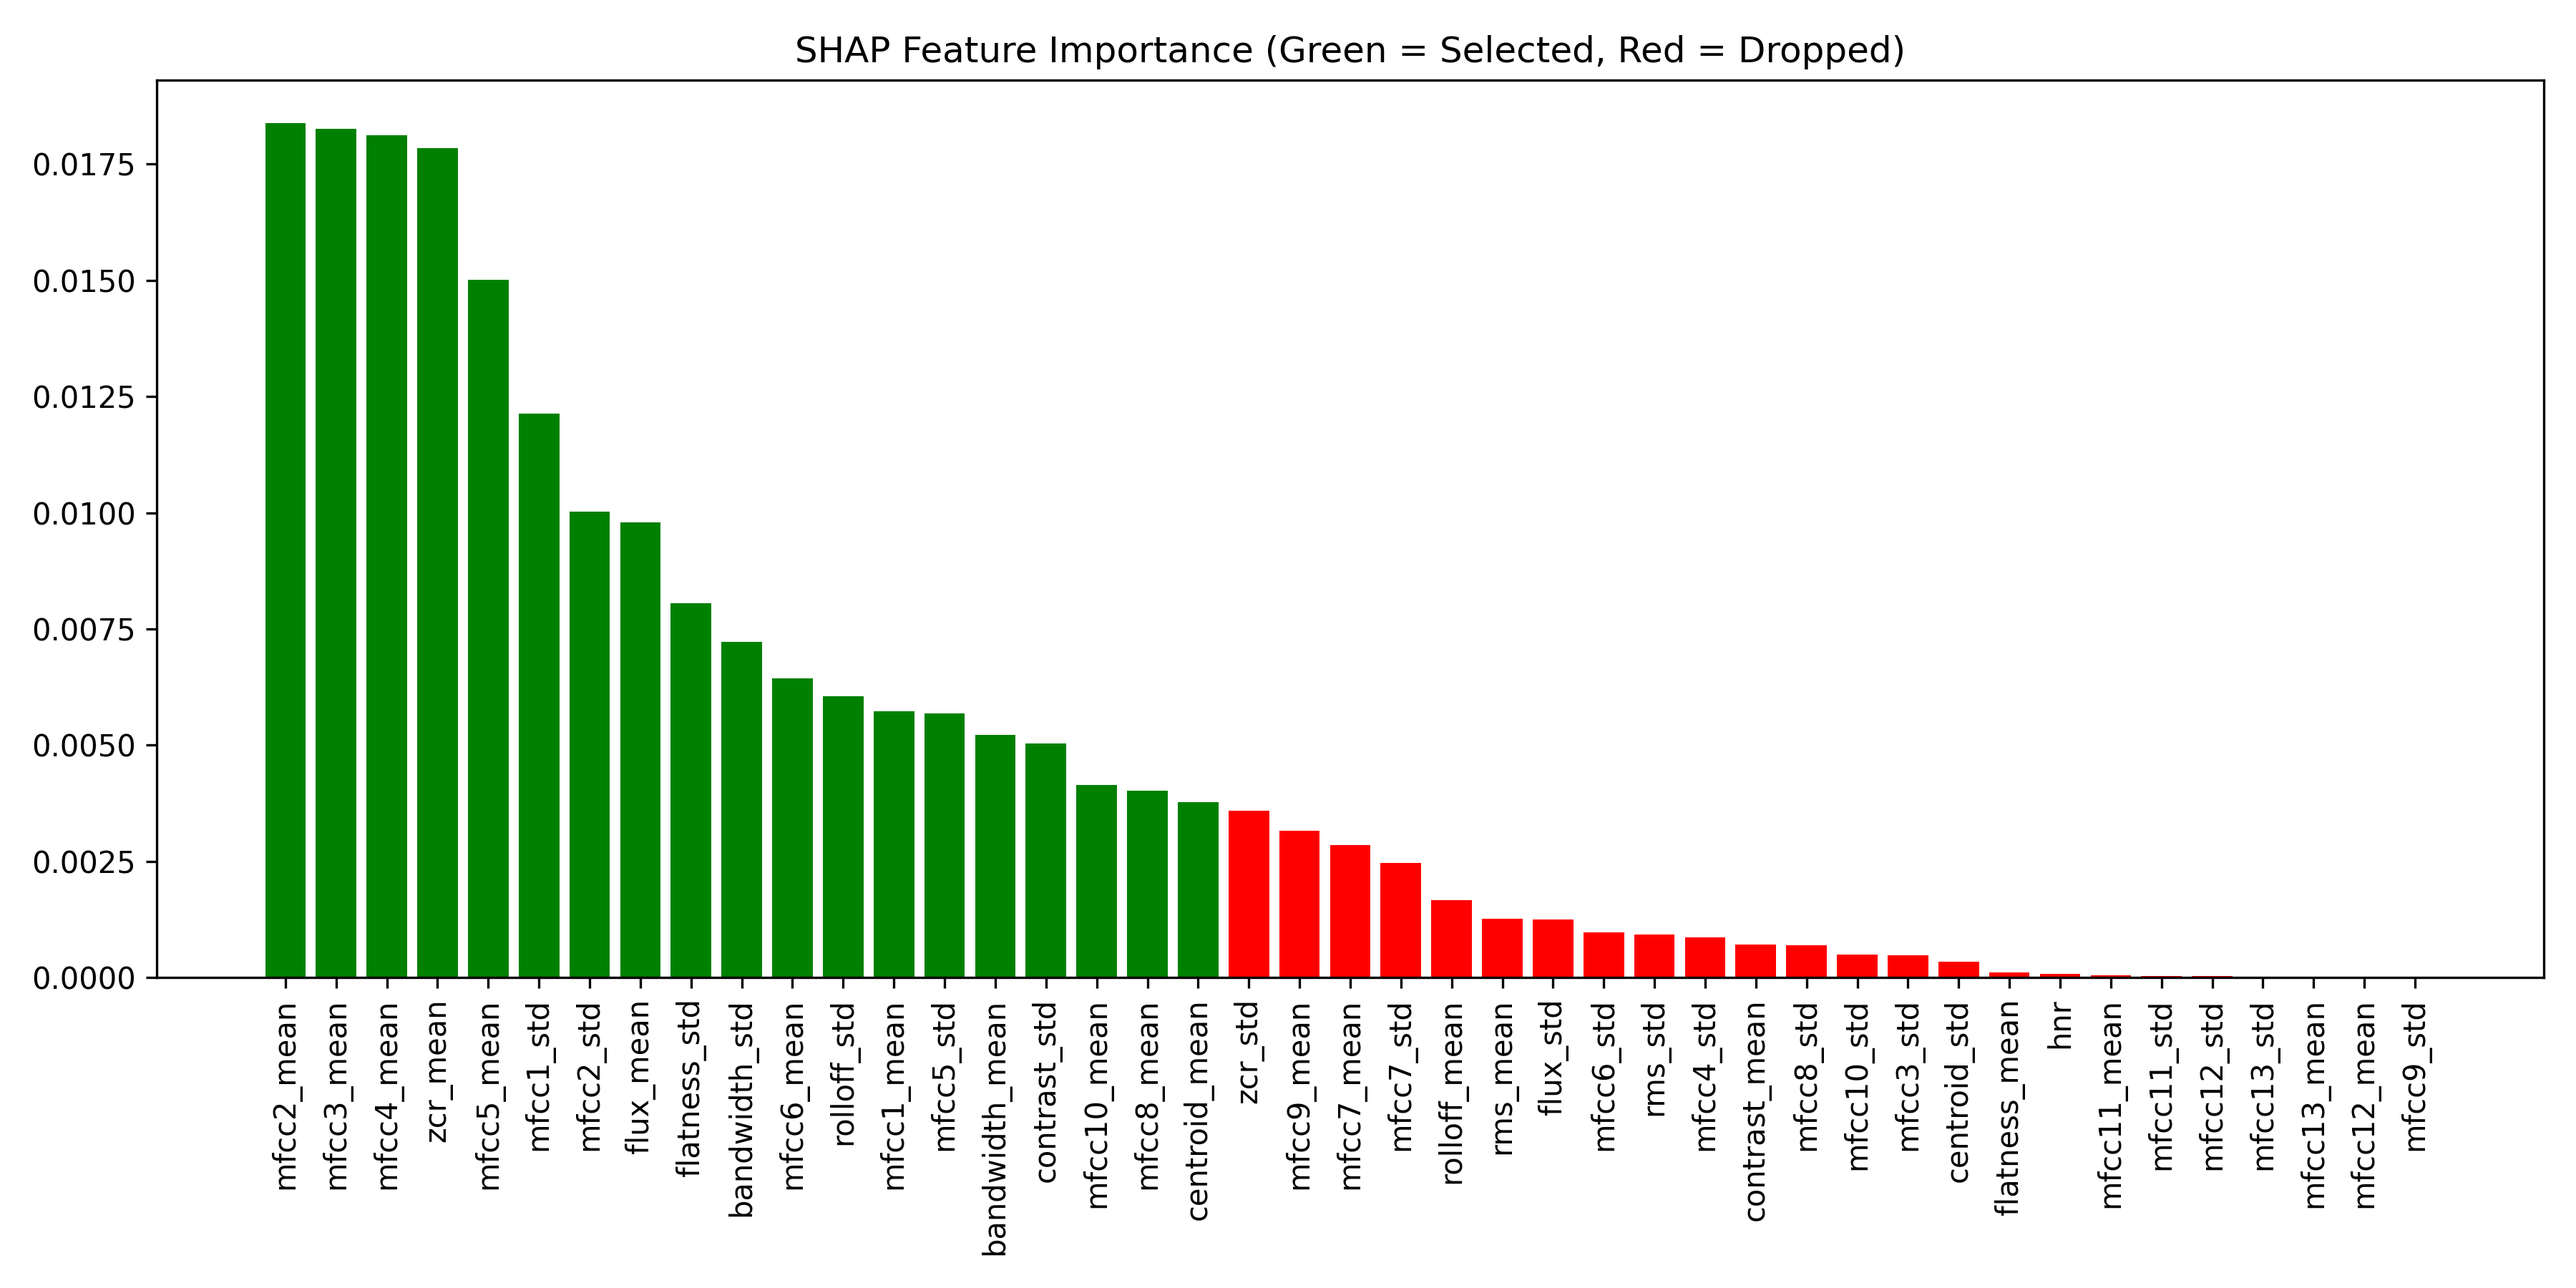
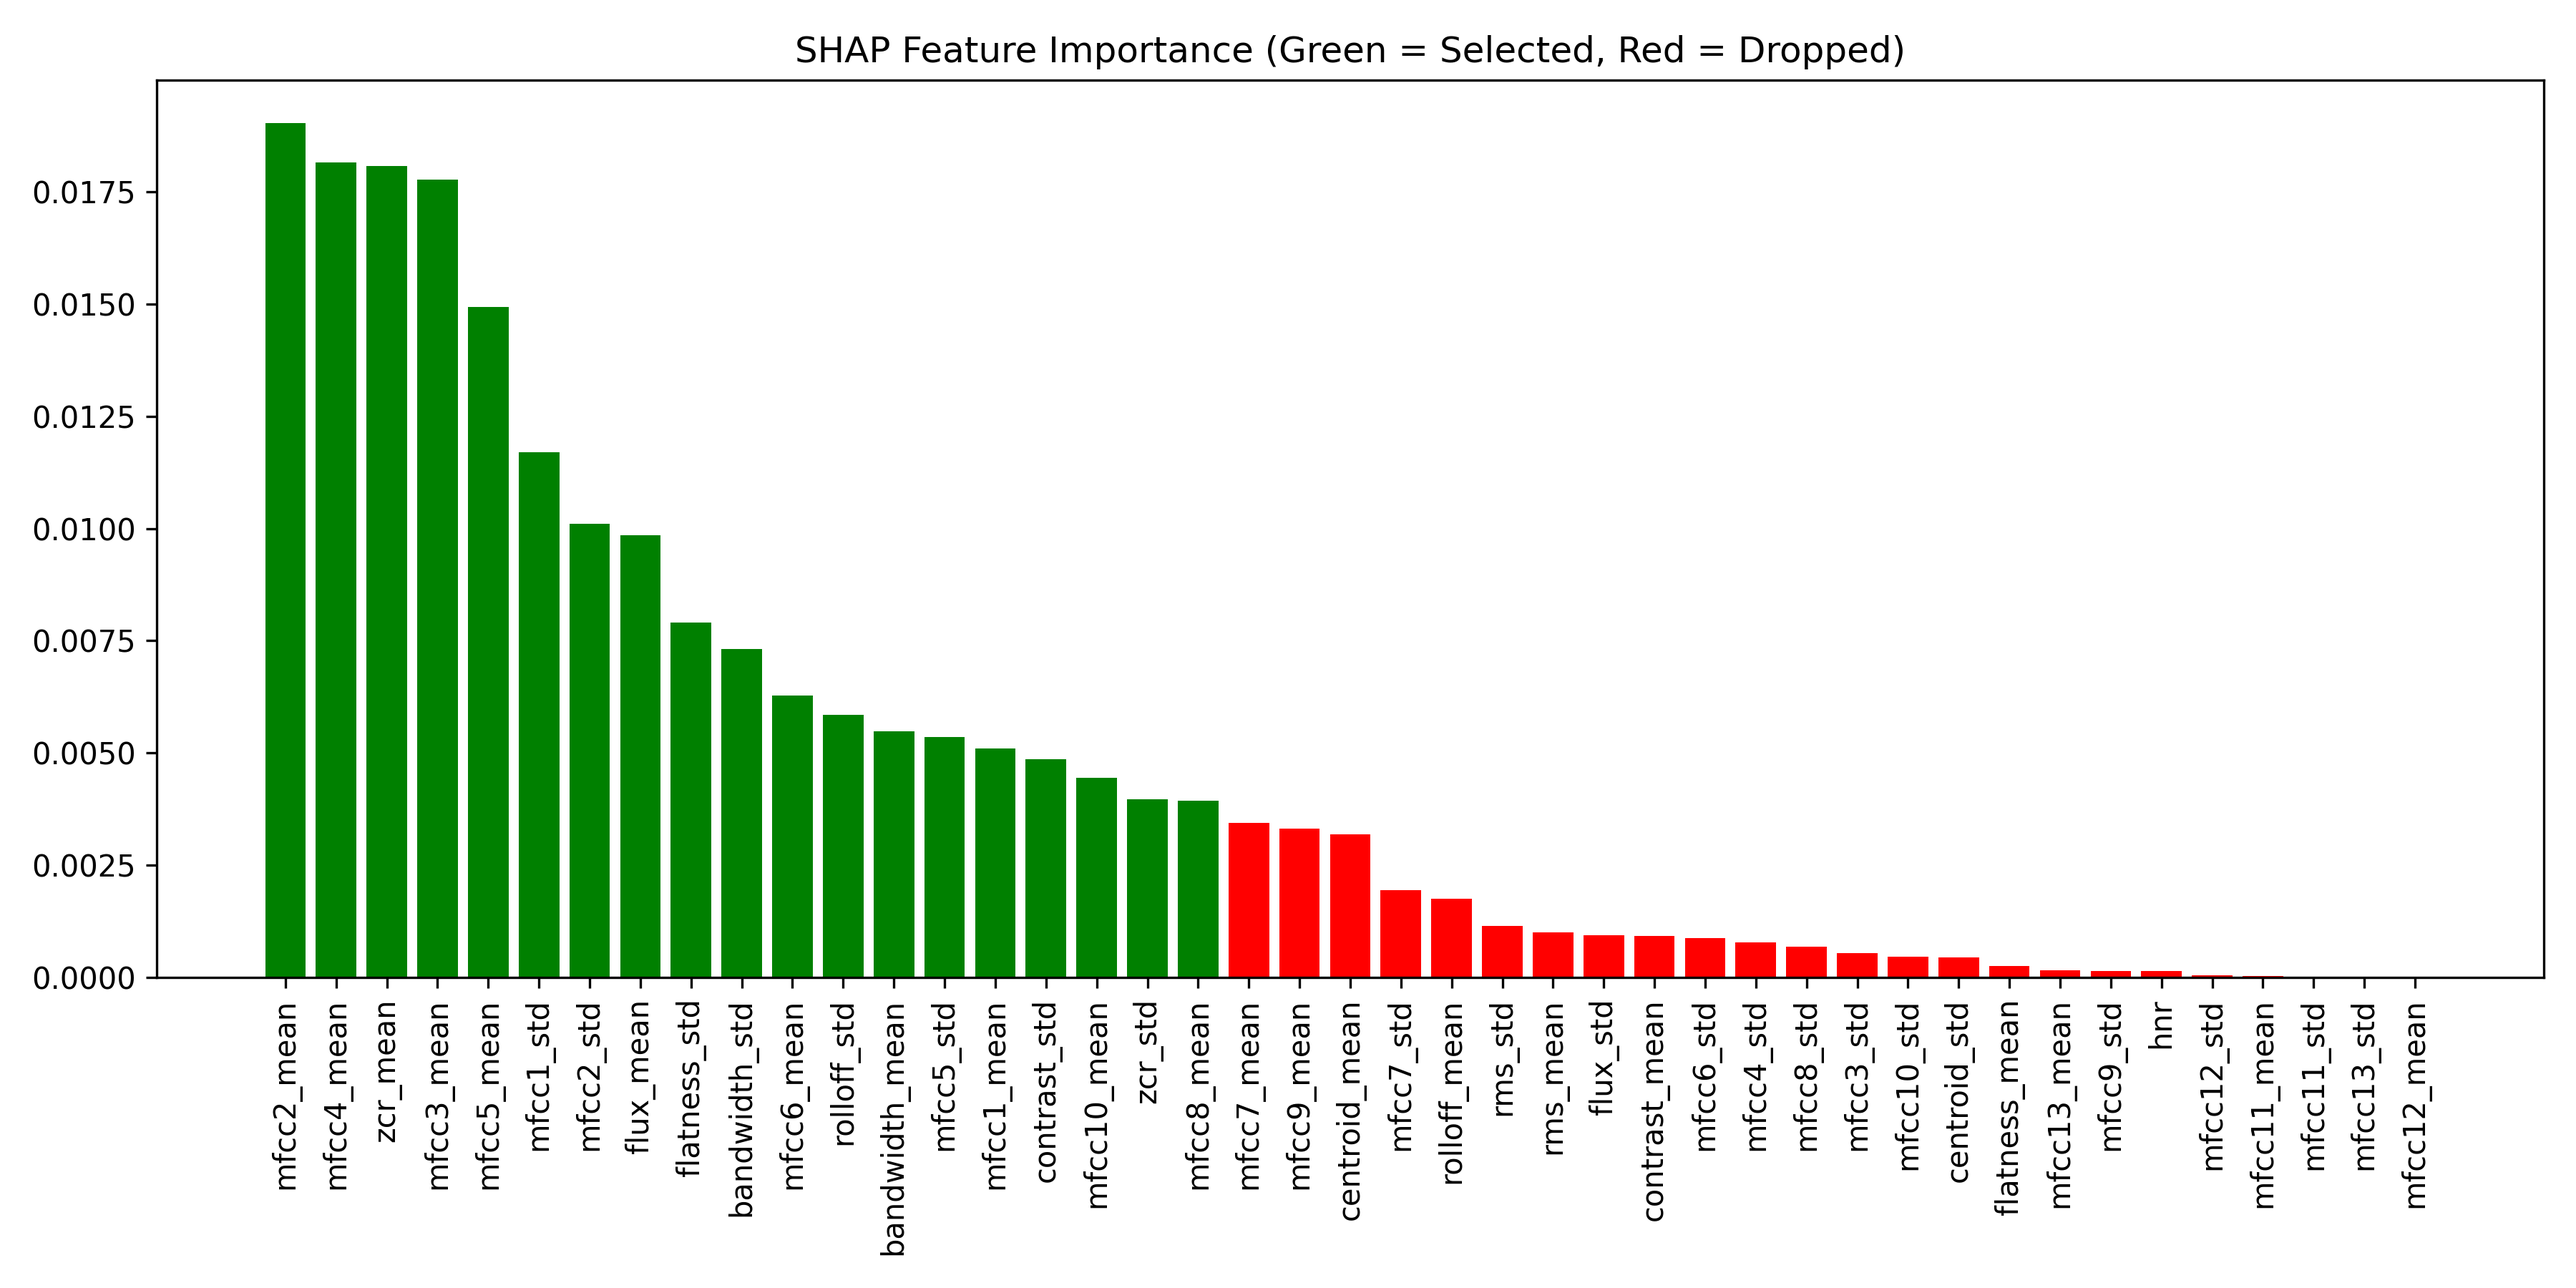
forhåbentlig færdig

diff --git a/Modeller/SVM/svm_endelig.py b/Modeller/SVM/svm_endelig.py
@@ -108,7 +108,7 @@ def evaluate_model(model, scaler, X, y, label_encoder):
 # 6. SHAP FEATURE IMPORTANCE
 # ============================================================
 
-def shap_feature_importance(model, X_train, X_val, feature_names, save_path="Modeller/SVM/shap_feature_importance3.png"):
+def shap_feature_importance(model, X_train, X_val, feature_names, save_path="Modeller/SVM/shap_feature_importance_endelig.png"):
     print("\n=== SHAP FEATURE IMPORTANCE ===")
 
     X_sample = X_train[:100]
@@ -135,6 +135,39 @@ def shap_feature_importance(model, X_train, X_val, feature_names, save_path="Mod
 
     return importance
 
+
+# ============================================================
+# AUTOMATISK FEATURE SELECTION BASERET PÅ SHAP
+# ============================================================
+
+def select_features_cumulative(importance, cutoff=0.95):
+    """
+    Vælger features, der tilsammen står for cutoff% af total SHAP importance.
+    """
+    # Normaliser SHAP values til sum=1
+    normalized = importance / importance.sum()
+    cumulative = normalized.cumsum()
+
+    # Behold features hvor cumulative sum < cutoff
+    selected = cumulative[cumulative <= cutoff].index.tolist()
+
+    print(f"\nSelected {len(selected)} features out of {len(importance)} (covers {cutoff*100:.1f}% importance)")
+    return selected
+
+def plot_selected_features(importance, selected_features, save_path="Modeller/SVM/selected_features_endelig.png"):
+    """
+    Visualiserer de valgte features (grøn) vs. uvalgte (rød)
+    """
+    colors = ["green" if f in selected_features else "red" for f in importance.index]
+
+    plt.figure(figsize=(12,6))
+    plt.bar(importance.index, importance.values, color=colors)
+    plt.xticks(rotation=90)
+    plt.title("SHAP Feature Importance (Green = Selected, Red = Dropped)")
+    plt.tight_layout()
+    plt.savefig(save_path, dpi=300)
+    plt.show()
+
 # ============================================================
 # 7. MAIN
 # ============================================================
@@ -147,18 +180,82 @@ if __name__ == "__main__":
     X_train, y_train, label_encoder = prepare_features(df_train)
     X_test,  y_test,  _ = prepare_features(df_test)
 
-    # 1. Train model med GridSearch
-    best_model, scaler = train_model_with_gridsearch(X_train, y_train, PARAM_GRID)
+    # ============================================================
+    # 1. GRIDSEARCH (ALLE FEATURES)
+    # ============================================================
+    print("\n\n########## STEP 1: ALL FEATURES (GRIDSEARCH) ##########")
 
-    # 2. Evaluation
-    X_test_scaled, _ = evaluate_model(best_model, scaler, X_test, y_test, label_encoder)
+    model_all, scaler_all = train_model_with_gridsearch(
+        X_train, y_train, PARAM_GRID
+    )
 
-    # 3. SHAP
-    X_train_scaled = scaler.transform(X_train)
+    print("\n--- Validation: ALL FEATURES ---")
+    evaluate_model(model_all, scaler_all, X_test, y_test, label_encoder)
 
-    shap_feature_importance(
-        best_model,
+    # ============================================================
+    # 2. SHAP + FEATURE SELECTION
+    # ============================================================
+    X_train_scaled = scaler_all.transform(X_train)
+    X_test_scaled  = scaler_all.transform(X_test)
+
+    importance = shap_feature_importance(
+        model_all,
         X_train_scaled,
         X_test_scaled,
         X_train.columns
     )
+
+    selected_features = select_features_cumulative(importance, cutoff=0.95)
+    plot_selected_features(importance, selected_features)
+
+    # Filtrer datasæt
+    X_train_selected = X_train[selected_features]
+    X_test_selected  = X_test[selected_features]
+
+    # ============================================================
+    # 3. TEST EFTER FEATURE SELECTION (INGEN RETRAIN)
+    # ============================================================
+    print("\n\n########## STEP 2: AFTER FEATURE SELECTION (RETRAIN, NO GRID) ##########")
+
+    # Ny scaler
+    scaler_selected_temp = StandardScaler()
+    X_train_selected_scaled = scaler_selected_temp.fit_transform(X_train_selected)
+    X_test_selected_scaled  = scaler_selected_temp.transform(X_test_selected)
+
+    # Samme hyperparameters som før
+    model_temp = SVC(**model_all.get_params())
+
+    model_temp.fit(X_train_selected_scaled, y_train)
+
+    y_pred = model_temp.predict(X_test_selected_scaled)
+
+    print("Accuracy:", accuracy_score(y_test, y_pred))
+    print(classification_report(y_test, y_pred, target_names=label_encoder.classes_))
+    print(confusion_matrix(y_test, y_pred))
+
+    # ============================================================
+    # 4. NY GRIDSEARCH (REDUCED FEATURES)
+    # ============================================================
+    print("\n\n########## STEP 3: GRIDSEARCH ON SELECTED FEATURES ##########")
+
+    model_selected, scaler_selected = train_model_with_gridsearch(
+        X_train_selected,
+        y_train,
+        PARAM_GRID
+    )
+
+    # ============================================================
+    # 5. FINAL TEST
+    # ============================================================
+    print("\n--- FINAL Validation: SELECTED FEATURES + GRIDSEARCH ---")
+
+    evaluate_model(
+        model_selected,
+        scaler_selected,
+        X_test_selected,
+        y_test,
+        label_encoder
+    )
+    print("\nFeature reduction:")
+    print(f"Original: {X_train.shape[1]} features")
+    print(f"Selected: {len(selected_features)} features")

diff --git a/Modeller/SVM/SVMfjernetfeatures.py b/Modeller/SVM/SVMfjernetfeatures.py
@@ -29,7 +29,7 @@ RANDOM_STATE = 42
 
 PARAM_GRID = {
     "C": [0.1, 1, 10, 100],
-    "kernel": ["linear", "rbf"],
+    "kernel": ["linear", "rbf", "poly", "sigmoid"],
     "gamma": ["scale", "auto"],
     "class_weight": [None, "balanced"],
 }
